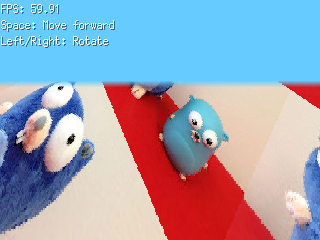
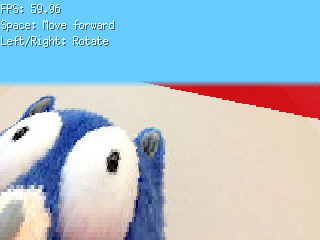
docs: Update

diff --git a/docs/examples/airship.html b/docs/examples/airship.html
@@ -210,12 +210,12 @@ func drawGroundImage(screen *ebiten.Image, ground *ebiten.Image) {
         gw, _ := ground.Size()
         pw, ph := perspectiveGroundImage.Size()
         for j := 0; j &lt; ph; j&#43;&#43; {
-                // z is in [1.5, 0.01]
+                // z is in [1, -1]
                 rate := float64(j) / float64(ph)
-                z := (1-rate)*1.5 &#43; rate*0.01
+                z := (1-rate)*1 &#43; rate*-1
                 op := &amp;ebiten.DrawImageOptions{}
                 op.GeoM.Translate(-float64(pw)/2, 0)
-                op.GeoM.Scale(1/z, 4) // 4 is an arbitrary number not to make empty lines.
+                op.GeoM.Scale(1/z, 8) // 8 is an arbitrary number not to make empty lines.
                 op.GeoM.Translate(float64(pw)/2, float64(j)/z)
 
                 src := image.Rect(0, j, gw, j&#43;1)
